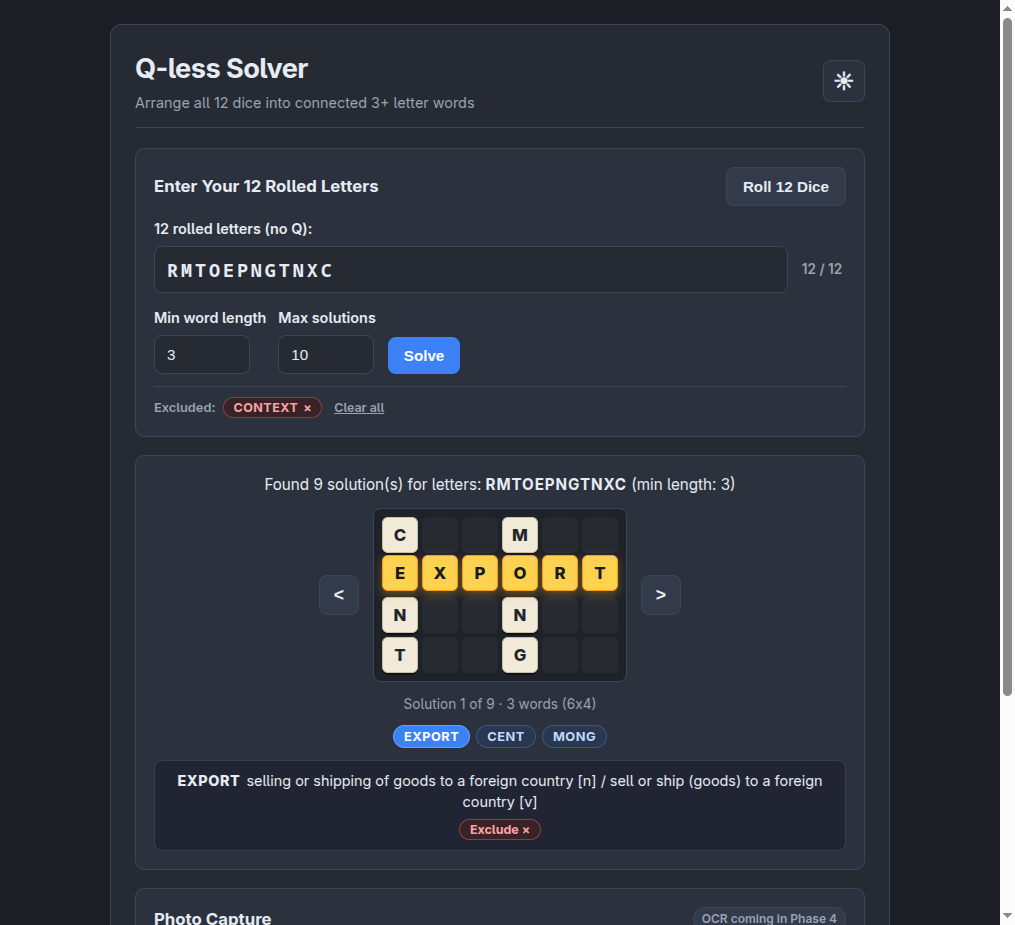
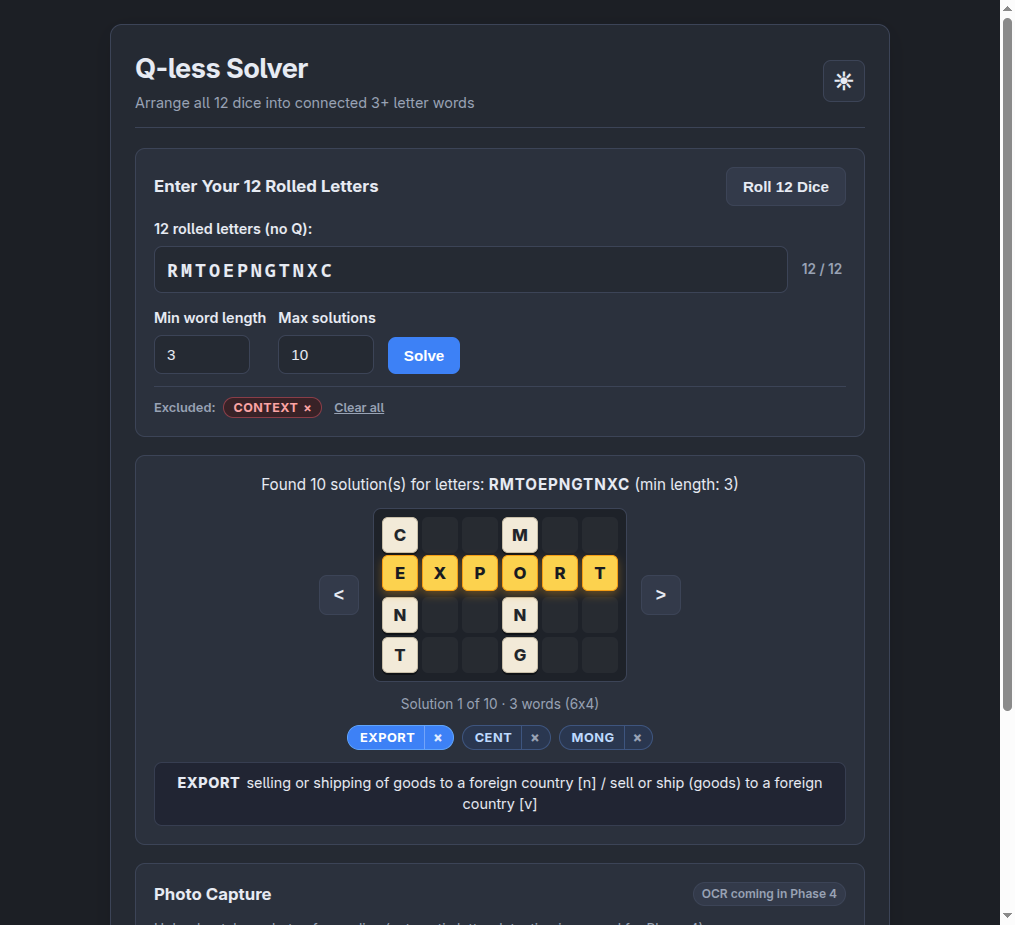
Redesign word exclusion to 1-click split word pills
- Render solution words as always-visible [ WORD | × ] split pills (.word-chip) so excluding any word takes 1 click without pinning first
- Highlight the target word in red (.grid-cell.exclude-preview) on hover/focus of ×
- Short-circuit unchanged showWord() updates so focus/blur never drops clicks
- Update E2E assertion and dark/light PR screenshots

diff --git a/web/templates/results_snippet.html b/web/templates/results_snippet.html
@@ -43,12 +43,15 @@
 
         <div id="result-words" class="word-list">
             {% for entry in first_sol.word_entries %}
-                <button type="button" class="word-badge" data-word-idx="{{ loop.index0 }}" title="{{ entry.definition or 'Definition unavailable' }}">{{ entry.word }}</button>
+                <span class="word-chip" data-word-idx="{{ loop.index0 }}">
+                    <button type="button" class="word-badge" data-word-idx="{{ loop.index0 }}" title="{{ entry.definition or 'Definition unavailable' }}">{{ entry.word }}</button>
+                    <button type="button" class="word-exclude" data-word="{{ entry.word }}" data-word-idx="{{ loop.index0 }}" title="Exclude {{ entry.word }} and re-solve" aria-label="Exclude {{ entry.word }}">&times;</button>
+                </span>
             {% endfor %}
         </div>
 
         <div id="result-definition" class="definition-box" aria-live="polite">
-            <span class="definition-hint">Click or tap any word on the board or below to see its definition.</span>
+            <span class="definition-hint">Click or tap any word to see its definition, or &times; to exclude it.</span>
         </div>
     </section>
 
@@ -59,10 +62,12 @@
 
             const canHover = window.matchMedia('(hover: hover)').matches;
             const HINT = canHover
-                ? 'Click any word on the board or below to see its definition.'
-                : 'Tap any word on the board or below to see its definition.';
+                ? 'Click any word on the board or below to see its definition, or × to exclude it.'
+                : 'Tap any word on the board or below to see its definition, or × to exclude it.';
             let idx = 0;
             let pinnedWordIdx = null;
+            let lastShownWordIdx = undefined;
+            let lastShownPinnedIdx = undefined;
             const gridEl = document.getElementById('result-grid');
             const counterEl = document.getElementById('result-counter');
             const metaEl = document.getElementById('result-meta');
@@ -76,12 +81,39 @@
                     || (sol.words || []).map((w) => ({ word: w, definition: null, cells: [] }));
             }
 
+            function cellsOf(wordIdx) {
+                const entry = wordIdx === null ? null : entriesFor(solutions[idx])[wordIdx];
+                return entry ? entry.cells || [] : [];
+            }
+
+            function clearExcludePreview() {
+                gridEl.querySelectorAll('.grid-cell.exclude-preview')
+                    .forEach((c) => c.classList.remove('exclude-preview'));
+            }
+
+            function showExcludePreview(wordIdx) {
+                clearExcludePreview();
+                cellsOf(wordIdx).forEach(([x, y]) => {
+                    const c = gridEl.querySelector(`.grid-cell[data-x="${x}"][data-y="${y}"]`);
+                    if (c) c.classList.add('exclude-preview');
+                });
+            }
+
             function showWord(wordIdx) {
+                if (wordIdx === lastShownWordIdx && pinnedWordIdx === lastShownPinnedIdx) {
+                    return;
+                }
+                lastShownWordIdx = wordIdx;
+                lastShownPinnedIdx = pinnedWordIdx;
+
                 const entries = entriesFor(solutions[idx]);
                 gridEl.querySelectorAll('.grid-cell.highlighted')
                     .forEach((c) => c.classList.remove('highlighted'));
                 wordsEl.querySelectorAll('.word-badge').forEach((b) => {
                     b.classList.toggle('active', Number(b.dataset.wordIdx) === pinnedWordIdx);
+                });
+                wordsEl.querySelectorAll('.word-chip').forEach((chip) => {
+                    chip.classList.toggle('active', Number(chip.dataset.wordIdx) === pinnedWordIdx);
                 });
 
                 defEl.replaceChildren();
@@ -99,45 +131,52 @@
                     if (cell) cell.classList.add('highlighted');
                 });
 
-                const content = document.createElement('span');
-                content.className = 'definition-content';
                 const wordSpan = document.createElement('span');
                 wordSpan.className = 'definition-word';
                 wordSpan.textContent = entry.word;
                 const textSpan = document.createElement('span');
                 textSpan.className = 'definition-text';
                 textSpan.textContent = entry.definition || 'Definition unavailable.';
-                content.append(wordSpan, textSpan);
-                defEl.appendChild(content);
-
-                if (wordIdx !== null && wordIdx === pinnedWordIdx && typeof window.qlessExcludeWord === 'function') {
-                    const excludeBtn = document.createElement('button');
-                    excludeBtn.type = 'button';
-                    excludeBtn.className = 'exclude-btn';
-                    excludeBtn.textContent = 'Exclude ×';
-                    excludeBtn.title = `Exclude ${entry.word} and re-solve`;
-                    excludeBtn.setAttribute('aria-label', `Exclude ${entry.word} and re-solve`);
-                    excludeBtn.addEventListener('click', () => window.qlessExcludeWord(entry.word));
-                    defEl.appendChild(excludeBtn);
-                }
+                defEl.append(wordSpan, textSpan);
             }
 
-            function bindBadge(badge) {
-                const wordIdx = Number(badge.dataset.wordIdx);
-                badge.addEventListener('mouseenter', () => showWord(wordIdx));
-                badge.addEventListener('focus', () => showWord(wordIdx));
-                badge.addEventListener('mouseleave', () => showWord(pinnedWordIdx));
-                badge.addEventListener('blur', () => showWord(pinnedWordIdx));
-                badge.addEventListener('click', () => {
-                    pinnedWordIdx = pinnedWordIdx === wordIdx ? null : wordIdx;
-                    showWord(pinnedWordIdx ?? wordIdx);
-                });
+            function bindWordChip(chip) {
+                const wordIdx = Number(chip.dataset.wordIdx);
+                const badge = chip.querySelector('.word-badge');
+                const excludeBtn = chip.querySelector('.word-exclude');
+                if (badge) {
+                    badge.addEventListener('mouseenter', () => showWord(wordIdx));
+                    badge.addEventListener('focus', () => showWord(wordIdx));
+                    badge.addEventListener('mouseleave', () => showWord(pinnedWordIdx));
+                    badge.addEventListener('blur', () => showWord(pinnedWordIdx));
+                    badge.addEventListener('click', () => {
+                        pinnedWordIdx = pinnedWordIdx === wordIdx ? null : wordIdx;
+                        showWord(pinnedWordIdx);
+                    });
+                }
+                if (excludeBtn) {
+                    const word = excludeBtn.dataset.word || (badge ? badge.textContent : '');
+                    excludeBtn.addEventListener('mouseenter', () => showExcludePreview(wordIdx));
+                    excludeBtn.addEventListener('focus', () => showExcludePreview(wordIdx));
+                    excludeBtn.addEventListener('mouseleave', clearExcludePreview);
+                    excludeBtn.addEventListener('blur', clearExcludePreview);
+                    excludeBtn.addEventListener('click', (event) => {
+                        event.stopPropagation();
+                        clearExcludePreview();
+                        if (typeof window.qlessExcludeWord === 'function') {
+                            window.qlessExcludeWord(word);
+                        }
+                    });
+                }
             }
 
             function render(newIdx) {
                 idx = (newIdx + solutions.length) % solutions.length;
                 pinnedWordIdx = null;
+                lastShownWordIdx = undefined;
+                lastShownPinnedIdx = undefined;
                 clearPreview();
+                clearExcludePreview();
                 const sol = solutions[idx];
 
                 gridEl.replaceChildren();
@@ -160,25 +199,35 @@
 
                 wordsEl.replaceChildren();
                 entriesFor(sol).forEach((entry, wordIdx) => {
+                    const chip = document.createElement('span');
+                    chip.className = 'word-chip';
+                    chip.dataset.wordIdx = String(wordIdx);
+
                     const badge = document.createElement('button');
                     badge.type = 'button';
                     badge.className = 'word-badge';
                     badge.dataset.wordIdx = String(wordIdx);
                     badge.title = entry.definition || 'Definition unavailable';
                     badge.textContent = entry.word;
-                    bindBadge(badge);
-                    wordsEl.appendChild(badge);
+
+                    const excludeBtn = document.createElement('button');
+                    excludeBtn.type = 'button';
+                    excludeBtn.className = 'word-exclude';
+                    excludeBtn.dataset.word = entry.word;
+                    excludeBtn.dataset.wordIdx = String(wordIdx);
+                    excludeBtn.title = `Exclude ${entry.word} and re-solve`;
+                    excludeBtn.setAttribute('aria-label', `Exclude ${entry.word}`);
+                    excludeBtn.textContent = '×';
+
+                    chip.append(badge, excludeBtn);
+                    bindWordChip(chip);
+                    wordsEl.appendChild(chip);
                 });
 
                 showWord(null);
             }
 
-            wordsEl.querySelectorAll('.word-badge').forEach(bindBadge);
-
-            function cellsOf(wordIdx) {
-                const entry = wordIdx === null ? null : entriesFor(solutions[idx])[wordIdx];
-                return entry ? entry.cells || [] : [];
-            }
+            wordsEl.querySelectorAll('.word-chip').forEach(bindWordChip);
 
             // Word a click on (x, y) would pin next. Tiles at an intersection
             // cycle: first word -> second word -> unpinned (null).
@@ -198,8 +247,8 @@
             function clearPreview() {
                 gridEl.querySelectorAll('.grid-cell.preview')
                     .forEach((c) => c.classList.remove('preview'));
-                wordsEl.querySelectorAll('.word-badge.preview')
-                    .forEach((b) => b.classList.remove('preview'));
+                wordsEl.querySelectorAll('.word-chip.preview')
+                    .forEach((c) => c.classList.remove('preview'));
             }
 
             function previewAt(cell) {
@@ -211,8 +260,8 @@
                     const c = gridEl.querySelector(`.grid-cell[data-x="${x}"][data-y="${y}"]`);
                     if (c) c.classList.add('preview');
                 });
-                const badge = wordsEl.querySelector(`.word-badge[data-word-idx="${next}"]`);
-                if (badge) badge.classList.add('preview');
+                const chip = wordsEl.querySelector(`.word-chip[data-word-idx="${next}"]`);
+                if (chip) chip.classList.add('preview');
             }
 
             gridEl.addEventListener('click', (event) => {

diff --git a/web/templates/index.html b/web/templates/index.html
@@ -379,14 +379,6 @@
             cursor: pointer;
         }
 
-        /* Desktop affordances: hovering a tile lifts the whole word a click selects */
-        @media (hover: hover) {
-            button.word-badge:hover {
-                transform: translateY(-1px);
-                box-shadow: 0 2px 6px rgba(0, 0, 0, 0.18);
-            }
-        }
-
         .grid-cell.highlighted {
             background-color: var(--tile-highlight-bg);
             border-color: var(--tile-highlight-border);
@@ -400,6 +392,14 @@
             border-color: var(--tile-preview-border);
             color: var(--tile-preview-text);
             box-shadow: var(--tile-preview-shadow);
+            transform: translateY(-2px);
+        }
+
+        .grid-cell.exclude-preview {
+            background-color: var(--exclude-bg);
+            border-color: var(--exclude-hover-border);
+            color: var(--exclude-text);
+            box-shadow: 0 4px 10px rgba(239, 68, 68, 0.28);
             transform: translateY(-2px);
         }
 
@@ -425,40 +425,86 @@
             display: flex;
             flex-wrap: wrap;
             justify-content: center;
-            gap: 6px;
+            gap: 8px;
             margin-top: 10px;
         }
 
-        .word-badge,
-        button.word-badge {
+        .word-chip {
+            display: inline-flex;
+            align-items: stretch;
             background-color: var(--badge-bg);
             border: 1px solid var(--badge-border);
-            color: var(--badge-text);
             border-radius: 999px;
-            padding: 3px 10px;
+            overflow: hidden;
+            transition: background-color 0.12s ease, border-color 0.12s ease, transform 0.12s ease, box-shadow 0.12s ease;
+        }
+
+        @media (hover: hover) {
+            .word-chip:hover {
+                transform: translateY(-1px);
+                box-shadow: 0 2px 6px rgba(0, 0, 0, 0.18);
+            }
+        }
+
+        .word-chip.preview:not(.active) {
+            border-color: var(--badge-active-border);
+            transform: translateY(-1px);
+            box-shadow: 0 2px 6px rgba(0, 0, 0, 0.16);
+        }
+
+        .word-chip.active {
+            background-color: var(--badge-active-bg);
+            border-color: var(--badge-active-border);
+        }
+
+        button.word-badge {
+            background: transparent;
+            border: none;
+            border-radius: 0;
+            color: var(--badge-text);
+            padding: 4px 9px 4px 12px;
             font-size: 0.8rem;
             font-weight: 700;
             letter-spacing: 0.04em;
             font-family: inherit;
-        }
-
-        button.word-badge {
             cursor: pointer;
-            transition: background-color 0.12s ease, color 0.12s ease, border-color 0.12s ease, transform 0.12s ease, box-shadow 0.12s ease;
-        }
-
-        button.word-badge.preview:not(.active) {
-            border-color: var(--badge-active-border);
-            transform: translateY(-1px);
-            box-shadow: 0 2px 6px rgba(0, 0, 0, 0.16);
+            transition: background-color 0.12s ease, color 0.12s ease;
         }
 
         button.word-badge:hover,
         button.word-badge:focus-visible,
         button.word-badge.active {
             background-color: var(--badge-active-bg);
-            border-color: var(--badge-active-border);
             color: var(--badge-active-text);
+            outline: none;
+        }
+
+        button.word-exclude {
+            background: transparent;
+            border: none;
+            border-left: 1px solid var(--badge-border);
+            border-radius: 0;
+            color: var(--muted-text);
+            padding: 4px 10px 4px 8px;
+            font-size: 0.85rem;
+            font-weight: 800;
+            line-height: 1;
+            font-family: inherit;
+            cursor: pointer;
+            transition: background-color 0.12s ease, color 0.12s ease;
+        }
+
+        .word-chip.active button.word-exclude {
+            color: rgba(255, 255, 255, 0.85);
+            border-left-color: rgba(255, 255, 255, 0.28);
+        }
+
+        button.word-exclude:hover,
+        button.word-exclude:focus-visible,
+        .word-chip.active button.word-exclude:hover,
+        .word-chip.active button.word-exclude:focus-visible {
+            background-color: var(--exclude-bg);
+            color: var(--exclude-text);
             outline: none;
         }
 
@@ -472,11 +518,6 @@
             line-height: 1.45;
             color: var(--text-color);
             min-height: 1.45em;
-            display: flex;
-            align-items: center;
-            justify-content: center;
-            flex-wrap: wrap;
-            gap: 6px 10px;
             text-align: center;
         }
 
@@ -489,26 +530,6 @@
         .definition-hint {
             color: var(--muted-text);
             font-style: italic;
-        }
-
-        button.exclude-btn {
-            background-color: var(--exclude-bg);
-            border: 1px solid var(--exclude-border);
-            color: var(--exclude-text);
-            border-radius: 999px;
-            padding: 2px 10px;
-            font-size: 0.78rem;
-            font-weight: 700;
-            font-family: inherit;
-            cursor: pointer;
-            transition: background-color 0.12s ease, border-color 0.12s ease;
-        }
-
-        button.exclude-btn:hover,
-        button.exclude-btn:focus-visible {
-            background-color: var(--exclude-hover-bg);
-            border-color: var(--exclude-hover-border);
-            outline: none;
         }
 
         .excluded-bar {

diff --git a/tests/e2e/test_web_api.py b/tests/e2e/test_web_api.py
@@ -190,6 +190,7 @@ def test_solve_letters_htmx_live_and_validation(client: TestClient) -> None:
     assert "Found " in live.text
     assert 'id="result-grid"' in live.text
     assert 'class="word-badge"' in live.text
+    assert 'class="word-exclude"' in live.text
     assert 'id="prev-result"' in live.text
     assert 'id="next-result"' in live.text
     assert 'id="result-definition"' in live.text
